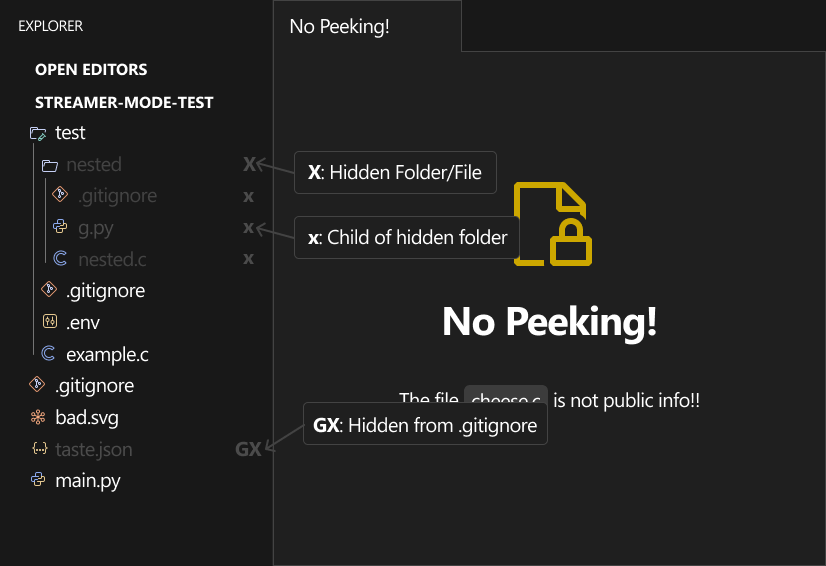
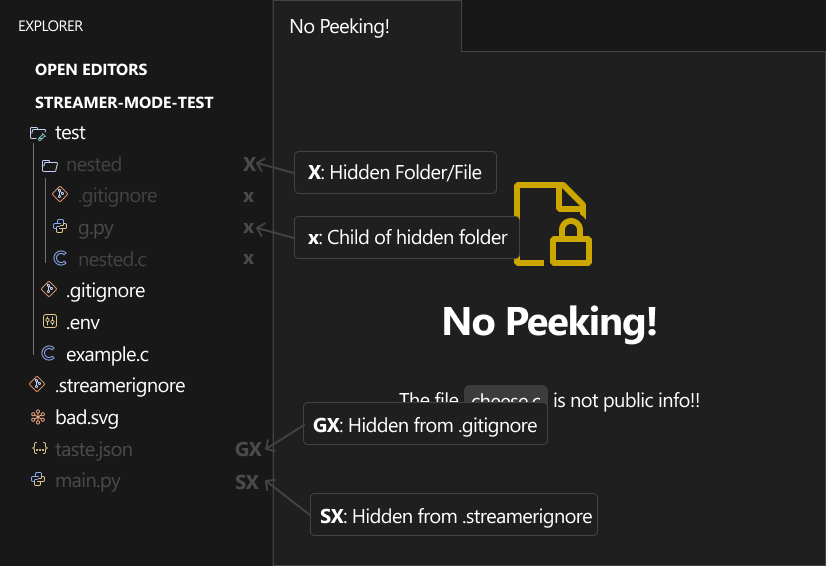
Added `.streamerignore` files

diff --git a/src/dirent_decorator.ts b/src/dirent_decorator.ts
@@ -1,7 +1,7 @@
 import * as vscode from 'vscode';
 import { DirentAccess } from './dirents/dirent_fs';
 import { streamerModeConfig } from './config';
-import { getAllGitIgnoredFiles } from './parse_gitignore';
+import { getAllGitIgnoredFiles, getAllStreamerIgnoredFiles } from './parse_gitignore';
 
 export class SecretDirentDecorationProvider implements vscode.FileDecorationProvider {
     hiddenDirentsReference: vscode.Uri[] = [];
@@ -9,6 +9,7 @@ export class SecretDirentDecorationProvider implements vscode.FileDecorationProv
     private _onDidChangeDirentDecorations = new vscode.EventEmitter<vscode.Uri[]>();
     public readonly onDidChangeFileDecorations = this._onDidChangeDirentDecorations.event;
     private gitIgnoredFiles: string[] = [];
+    private streamerIgnoredFiles: string[] = [];
 
     constructor(hiddenDirentsReference: vscode.Uri[]) {
         this.hiddenDirentsReference = hiddenDirentsReference;
@@ -16,6 +17,7 @@ export class SecretDirentDecorationProvider implements vscode.FileDecorationProv
 
     public async updateGitIgnoredFiles() {
         this.gitIgnoredFiles = (await getAllGitIgnoredFiles()).map((uri) => uri.path);
+        this.streamerIgnoredFiles = (await getAllStreamerIgnoredFiles()).map((uri) => uri.path);
     }
 
     private async _provideFileDecoration(uri: vscode.Uri): Promise<vscode.FileDecoration> {
@@ -37,6 +39,12 @@ export class SecretDirentDecorationProvider implements vscode.FileDecorationProv
             return {
                 badge: 'GX',
                 tooltip: 'Git Ignored!',
+                color: new vscode.ThemeColor('disabledForeground'),
+            };
+        if (streamerModeConfig.hideStreamerIgnoredFiles && this.streamerIgnoredFiles.includes(uri.path))
+            return {
+                badge: 'SX',
+                tooltip: 'Streamer Ignored!',
                 color: new vscode.ThemeColor('disabledForeground'),
             };
         return {};

diff --git a/src/extension.ts b/src/extension.ts
@@ -2,7 +2,7 @@ import * as vscode from 'vscode';
 import { SecretDirentDecorationProvider } from './dirent_decorator';
 import { TabManager } from './tab_manager';
 import { streamerModeConfig } from './config';
-import { getAllGitIgnoredFiles } from './parse_gitignore';
+import { getAllGitIgnoredFiles, getAllStreamerIgnoredFiles } from './parse_gitignore';
 
 const hiddenDirents: vscode.Uri[] = [];
 const secretDirentDecorationProvider = new SecretDirentDecorationProvider(hiddenDirents);
@@ -59,6 +59,20 @@ async function showGitIgnoredFiles() {
     tabManager.updateTabs(hiddenDirents);
 }
 
+async function hideStreamerIgnoredFiles() {
+    const streamerIgnoredFiles = await getAllStreamerIgnoredFiles();
+    await secretDirentDecorationProvider.updateGitIgnoredFiles();
+    secretDirentDecorationProvider.updateDirentDecorations(streamerIgnoredFiles);
+    tabManager.updateTabs([...hiddenDirents, ...streamerIgnoredFiles]);
+}
+
+async function showStreamerIgnoredFiles() {
+    const streamerIgnoredFiles = await getAllStreamerIgnoredFiles();
+    await secretDirentDecorationProvider.updateGitIgnoredFiles();
+    secretDirentDecorationProvider.updateDirentDecorations(streamerIgnoredFiles);
+    tabManager.updateTabs(hiddenDirents);
+}
+
 function clearStreamerData() {
     workspaceState?.update('streamerMode.hiddenDirents', []);
 }
@@ -87,6 +101,8 @@ export async function activate(context: vscode.ExtensionContext) {
             else disableStreamerMode();
             if (streamerModeConfig.hideGitIgnoredFiles) hideGitIgnoredFiles();
             else showGitIgnoredFiles();
+            if (streamerModeConfig.hideStreamerIgnoredFiles) hideStreamerIgnoredFiles();
+            else showStreamerIgnoredFiles();
         }
     });
 

diff --git a/src/parse_gitignore.ts b/src/parse_gitignore.ts
@@ -20,3 +20,24 @@ export async function getAllGitIgnoredFiles() {
     }
     return ignoredFiles;
 }
+
+export async function getAllStreamerIgnoredFiles() {
+    const streamerIgnoreFiles = await vscode.workspace.findFiles('**/.streamerignore');
+    const textDecoder = new TextDecoder();
+
+    const ignoredFiles: vscode.Uri[] = [];
+    for (const streamerIgnoreFile of streamerIgnoreFiles) {
+        const parentPath = streamerIgnoreFile.path.replace('.streamerignore', '');
+        const parentUri = vscode.Uri.file(parentPath);
+        const streamerIgnoreContents = await vscode.workspace.fs.readFile(streamerIgnoreFile);
+        const streamerIgnorePatterns = textDecoder
+            .decode(streamerIgnoreContents)
+            .split('\n')
+            .filter((pattern) => !pattern.trimStart().startsWith('#'));
+        for (const pattern of streamerIgnorePatterns) {
+            const relativePattern = new vscode.RelativePattern(parentUri, pattern);
+            ignoredFiles.push(...(await vscode.workspace.findFiles(relativePattern)));
+        }
+    }
+    return ignoredFiles;
+}

diff --git a/README_svg.md b/README_svg.md
@@ -18,8 +18,10 @@ This is indicated by the `X` mark next to the file.
 ![No Peeking](/readme-assets/Hide2.svg)
 
 It will automatically hide `.gitignore`d files! Here's are the additional marks next to the file/folder.
-
 ![Decorations](/readme-assets/Decorations.svg)
+
+Don't want the files to be `.gitignore`d but still want to save the sensitive file locations in a file? We also have a `.streamerignore` for ..well, that!
+(I recommend maybe `.gitignore`ing your `.streamerignore`.)
 
 ## Settings
 

diff --git a/README.md b/README.md
@@ -21,6 +21,9 @@ It will automatically hide `.gitignore`d files! Here's are the additional marks 
 
 ![Decorations](/readme-assets/Decorations.png)
 
+Don't want the files to be `.gitignore`d but still want to save the sensitive file locations in a file? We also have a `.streamerignore` for ..well, that!
+(I recommend maybe `.gitignore`ing your `.streamerignore`.)
+
 ## Settings
 
 ### Enable Streamer Mode: `streamerMode.enableStreamerMode`
